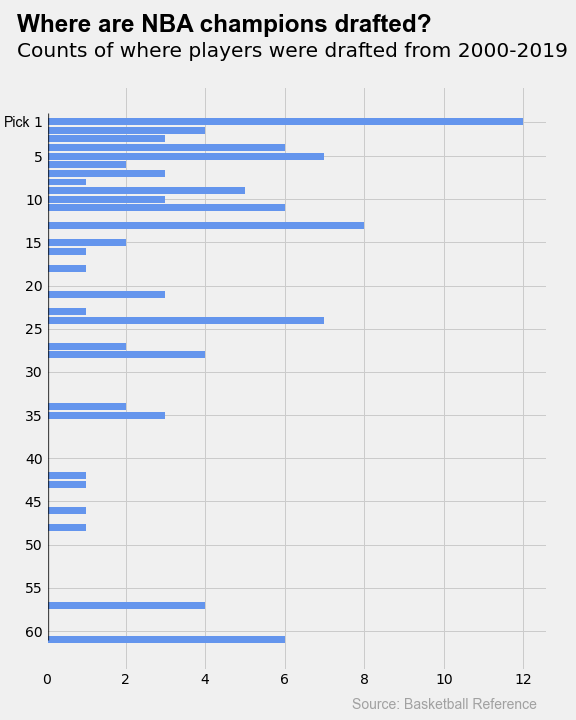
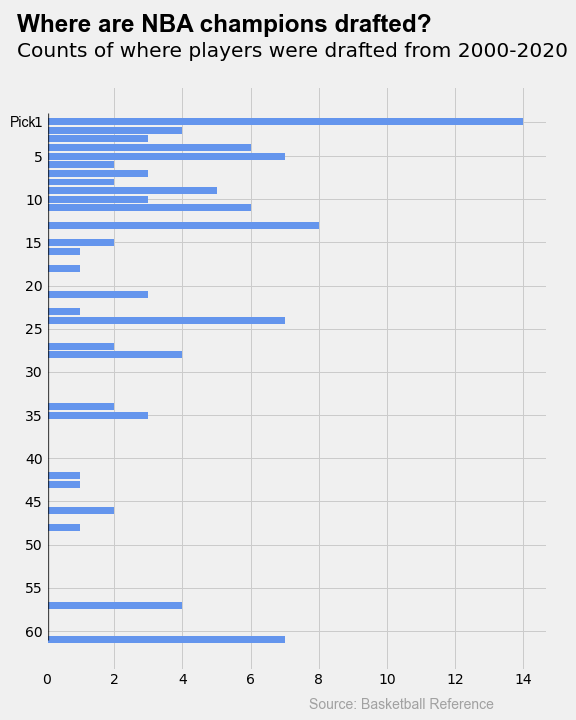
deploy: bgrnwd/bgrnwd@c61d89a7ea22bcba8422edb5607b28d5fe073c58

diff --git a/posts/nba-champion/index.html b/posts/nba-champion/index.html
@@ -1,53 +1,1 @@
-<!doctype html><html><head><meta charset=utf-8><meta name=viewport content="width=device-width,initial-scale=1"><link rel=stylesheet href=/css/style.css><link rel=icon type=image/png sizes=32x32 href=/images/favicon-32x32.png><link rel=icon type=image/png sizes=16x16 href=/images/favicon-16x16.png><title>Where are NBA Champions drafted?</title></head><body><nav class=wrapper><div class=nav-container><div class=home><a href=/><h1 class=nav-title>Brian Greenwood</h1></a></div><div class=menu><ul><li><a href=/posts/><span>Blog</span></a></li><li><a href=https://github.com/bgrnwd target=_blank><span>Code</span></a></li></ul></div></div></nav><main class=wrapper><div class=single>August 08, 2020<h1>Where are NBA Champions drafted?</h1><p>I recently logged on to my <a href=https://www.kaggle.com/>Kaggle</a> profile for the first time in years and stumbled across a &ldquo;dataset&rdquo; I made in 2018. The dataset includes the top five players by playoff minutes from every NBA champion team from 2000 through 2019 and where each team’s top 5 players were selected in their respective drafts. Building a championship-winning team is a difficult task and I wanted to see what information could be gleaned by looking at the top of those rosters. Does building a championship team rely on picking projected stars early? Or do certain teams who pick later in the draft just consistently have the ability to identify hidden talent and develop it? Or is it a little bit of both?</p><h2 id=data>Data</h2><p>I focused on the NBA champion teams from 2000 through 2019 because this covers all seasons this century and conveniently excludes any championship teams that would have had a player drafted before 1989, the first year the draft went to 2 rounds (1999 champion San Antonio Spurs member <a href=https://www.basketball-reference.com/players/e/eliema01.html>Mario Elie</a> was the last player who won a championship and was drafted before 1989). Prior to 1989, the draft had many more picks which would have added complexity to the dataset. The current NBA Draft spans 2 rounds of 30 picks. Some players in the dataset are assigned to “pick 61” to account for that fact that they went un-drafted. All data was collected from <a href=https://www.basketball-reference.com/>Basketball Reference</a> manually (ouch! Were I to do this over again, I would have done this programmatically). Here’s what the data looks like for the 2019 Toronto Raptors:</p><div class=highlight><div style=background-color:#fff;-moz-tab-size:4;-o-tab-size:4;tab-size:4><table style=border-spacing:0;padding:0;margin:0;border:0;width:auto;overflow:auto;display:block><tr><td style=vertical-align:top;padding:0;margin:0;border:0><pre style=background-color:#fff;-moz-tab-size:4;-o-tab-size:4;tab-size:4><code><span style="margin-right:.4em;padding:0 .4em;color:#7f7f7f"> 1
-</span><span style="margin-right:.4em;padding:0 .4em;color:#7f7f7f"> 2
-</span><span style="margin-right:.4em;padding:0 .4em;color:#7f7f7f"> 3
-</span><span style="margin-right:.4em;padding:0 .4em;color:#7f7f7f"> 4
-</span><span style="margin-right:.4em;padding:0 .4em;color:#7f7f7f"> 5
-</span><span style="margin-right:.4em;padding:0 .4em;color:#7f7f7f"> 6
-</span><span style="margin-right:.4em;padding:0 .4em;color:#7f7f7f"> 7
-</span><span style="margin-right:.4em;padding:0 .4em;color:#7f7f7f"> 8
-</span><span style="margin-right:.4em;padding:0 .4em;color:#7f7f7f"> 9
-</span><span style="margin-right:.4em;padding:0 .4em;color:#7f7f7f">10
-</span><span style="margin-right:.4em;padding:0 .4em;color:#7f7f7f">11
-</span><span style="margin-right:.4em;padding:0 .4em;color:#7f7f7f">12
-</span><span style="margin-right:.4em;padding:0 .4em;color:#7f7f7f">13
-</span><span style="margin-right:.4em;padding:0 .4em;color:#7f7f7f">14
-</span><span style="margin-right:.4em;padding:0 .4em;color:#7f7f7f">15
-</span><span style="margin-right:.4em;padding:0 .4em;color:#7f7f7f">16
-</span><span style="margin-right:.4em;padding:0 .4em;color:#7f7f7f">17
-</span><span style="margin-right:.4em;padding:0 .4em;color:#7f7f7f">18
-</span><span style="margin-right:.4em;padding:0 .4em;color:#7f7f7f">19
-</span><span style="margin-right:.4em;padding:0 .4em;color:#7f7f7f">20
-</span><span style="margin-right:.4em;padding:0 .4em;color:#7f7f7f">21
-</span><span style="margin-right:.4em;padding:0 .4em;color:#7f7f7f">22
-</span><span style="margin-right:.4em;padding:0 .4em;color:#7f7f7f">23
-</span><span style="margin-right:.4em;padding:0 .4em;color:#7f7f7f">24
-</span><span style="margin-right:.4em;padding:0 .4em;color:#7f7f7f">25
-</span><span style="margin-right:.4em;padding:0 .4em;color:#7f7f7f">26
-</span></code></pre></td><td style=vertical-align:top;padding:0;margin:0;border:0;width:100%><pre style=background-color:#fff;-moz-tab-size:4;-o-tab-size:4;tab-size:4><code class=language-json data-lang=json>{
-    <span style=color:#000>&#34;year&#34;</span>: <span style=color:#1c01ce>2019</span>,
-    <span style=color:#000>&#34;team&#34;</span>: <span style=color:#c41a16>&#34;Toronto Raptors&#34;</span>,
-    <span style=color:#000>&#34;players&#34;</span>:[
-        {
-            <span style=color:#000>&#34;name&#34;</span>: <span style=color:#c41a16>&#34;Kawhi Leonard&#34;</span>,
-            <span style=color:#000>&#34;pick&#34;</span>: <span style=color:#1c01ce>15</span>
-        },
-        {
-            <span style=color:#000>&#34;name&#34;</span>: <span style=color:#c41a16>&#34;Kyle Lowry&#34;</span>,
-            <span style=color:#000>&#34;pick&#34;</span>: <span style=color:#1c01ce>24</span>
-        },
-        {
-            <span style=color:#000>&#34;name&#34;</span>: <span style=color:#c41a16>&#34;Pascal Siakam&#34;</span>,
-            <span style=color:#000>&#34;pick&#34;</span>: <span style=color:#1c01ce>27</span>
-        },
-        {
-            <span style=color:#000>&#34;name&#34;</span>: <span style=color:#c41a16>&#34;Marc Gasol&#34;</span>,
-            <span style=color:#000>&#34;pick&#34;</span>: <span style=color:#1c01ce>48</span>
-        },
-        {
-            <span style=color:#000>&#34;name&#34;</span>: <span style=color:#c41a16>&#34;Danny Green&#34;</span>,
-            <span style=color:#000>&#34;pick&#34;</span>: <span style=color:#1c01ce>46</span>
-        }
-    ]
-}
-</code></pre></td></tr></table></div></div><p>I wrote a small script that computes the average draft position of the top five players for each individual championship team and the average draft position of the top five players of all championship teams over the past 20 years. No de-duplication was done, so Lebron winning with the Miami Heat in 2012 and 2013 would count twice for pick 1. All fractional picks were rounded to the nearest integer.</p><h2 id=analysis>Analysis</h2><table><thead><tr><th>Year</th><th>Team</th><th>Average Draft Position</th></tr></thead><tbody><tr><td>2019</td><td>Toronto Raptors</td><td>32</td></tr><tr><td>2018</td><td>Golden State Warriors</td><td>14</td></tr><tr><td>2017</td><td>Golden State Warriors</td><td>14</td></tr><tr><td>2016</td><td>Cleveland Cavaliers</td><td>6</td></tr><tr><td>2015</td><td>Golden State Warriors</td><td>15</td></tr><tr><td>2014</td><td>San Antonio Spurs</td><td>24</td></tr><tr><td>2013</td><td>Miami Heat</td><td>10</td></tr><tr><td>2012</td><td>Miami Heat</td><td>21</td></tr><tr><td>2011</td><td>Dallas Mavericks</td><td>6</td></tr><tr><td>2010</td><td>Los Angeles Lakers</td><td>12</td></tr><tr><td>2009</td><td>Los Angeles Lakers</td><td>17</td></tr><tr><td>2008</td><td>Boston Celtics</td><td>14</td></tr><tr><td>2007</td><td>San Antonio Spurs</td><td>34</td></tr><tr><td>2006</td><td>Miami Heat</td><td>16</td></tr><tr><td>2005</td><td>San Antonio Spurs</td><td>32</td></tr><tr><td>2004</td><td>Detroit Pistons</td><td>20</td></tr><tr><td>2003</td><td>San Antonio Spurs</td><td>38</td></tr><tr><td>2002</td><td>Los Angeles Lakers</td><td>15</td></tr><tr><td>2001</td><td>Los Angeles Lakers</td><td>14</td></tr><tr><td>2000</td><td>Los Angeles Lakers</td><td>7</td></tr><tr><td><strong>Overall</strong></td><td></td><td><strong>18</strong></td></tr></tbody></table><p>Looking at the table above, it&rsquo;s no surprise to see that most averages fall in the first round, with the overall average being 18. In order to build champions in the NBA, you need star players and star players are most often found near the top of the draft.</p><p>There are two teams in particular who stand out at the top: the <a href=https://www.basketball-reference.com/teams/CLE/2016.html>2016 Cleveland Cavaliers</a> and the <a href=https://www.basketball-reference.com/teams/DAL/2011.html>2011 Dallas Mavericks</a>, both with an average of six. The Cavaliers won with a foursome of players taken in the top five, Lebron James (pick 1), Kyrie Irving (pick 1), Tristan Thompson (pick 4), and Kevin Love (pick 5). The champion Mavericks had two players taken at pick 2, Jason Kidd and Tyson Chandler, and the rest of their players fell at the end of the top 10; Dirk Nowitzki (pick 9), Shawn Marion (pick 9), and Jason Terry (pick 10).</p><p>The lowest average draft position that appears on the list is 38 (8th pick in the 2nd round) and belongs to the <a href=https://www.basketball-reference.com/teams/SAS/2003.html>2003 San Antonio Spurs</a>. The Spurs’ average here is dragged down by Bruce Bowen (pick 61), Manu Ginobolu (pick 57), and Stephen Jackson (pick 42). The Spurs’ other championship winning teams also have relatively low average draft positions which I think speaks to their ability to identify talent in the 2nd round and develop it. The Spurs have long been lauded for their organizational culture and their ability to consistently be competitive through player development.</p><p>Here&rsquo;s a graphical breakdown of the dataset</p><p><img src=/static/champions.png alt="Horizontal bar chart of draft position vs count"></p><h2 id=conclusion>Conclusion</h2><p>There’s a lot of clustering near the top of the chart in 1-10 range, and some peaks late in the first round and sporadically throughout the second round. Drafting is only one component of building a championship team and not all the players in the dataset where drafted by the teams they won with. Roster fit, chemistry, coaching, and player development all factor in to how successful a team can be. This is particularly emphasized by the the Spurs champtionship teams' low averages. While high draft picks seem to be component of many championship teams, having an orgainzation that can identify talent and nuture it, is another viable pathway to the Larry O&rsquo;Brien trophy.</p><div class=tags><h3 class=filedUnder>Filed Under</h3><p><a href=https://bgrnwd.com/tags/nba/>NBA</a></p><p><a href=https://bgrnwd.com/tags/basketball/>Basketball</a></p><p><a href=https://bgrnwd.com/tags/nba-draft/>NBA Draft</a></p></div></div></main><footer></footer></body></html>
+<!doctype html><html><head><meta charset=utf-8><meta name=viewport content="width=device-width,initial-scale=1"><link rel=stylesheet href=/css/style.css><link rel=icon type=image/png sizes=32x32 href=/images/favicon-32x32.png><link rel=icon type=image/png sizes=16x16 href=/images/favicon-16x16.png><title>Where are NBA Champions drafted?</title></head><body><nav class=wrapper><div class=nav-container><div class=home><a href=/><h1 class=nav-title>Brian Greenwood</h1></a></div><div class=menu><ul><li><a href=/posts/><span>Blog</span></a></li><li><a href=https://github.com/bgrnwd target=_blank><span>Code</span></a></li><li><a href=/notes/><span>Notes</span></a></li></ul></div></div></nav><main class=wrapper><div class=single>August 08, 2020<h1>Where are NBA Champions drafted?</h1><blockquote><p>This article was updated on December 24, 2020 to include data from the 2019-2020 NBA season, along with some minor edits.</p></blockquote><p>I recently logged on to my <a href=https://www.kaggle.com/>Kaggle</a> profile for the first time in years and stumbled across a &ldquo;dataset&rdquo; I made in 2018. The dataset includes the top five players ranked by playoff minutes from every NBA champion team from 2000 through 2019 and where those players were selected in their respective drafts. Using playoff minutes instead of starting lineups provides a truer picture of how champions played throughout their playoff run. The downside to limiting each champion in the dataset to 5 players meant that some important role players did not make the cut. In the case of the 2019 Raptors, Fred VanVleet just missed the cut.</p><p>Building a championship-winning team is a difficult task and I wanted to see what information could be gleaned by looking at the top of those rosters. Does building a championship team rely on picking projected stars early? Or do certain teams who pick later in the draft just consistently have the ability to identify talent and develop it? Or is it a little bit of both?</p><h2 id=data>Data</h2><p>I focused on the NBA champion teams from 2000 through 2019 because this covers all seasons this century and conveniently excludes any championship teams that would have had a player drafted before 1989, the first year the draft went to 2 rounds (1999 champion San Antonio Spurs member <a href=https://www.basketball-reference.com/players/e/eliema01.html>Mario Elie</a> was the last player who won a championship and was drafted before 1989). Prior to 1989, the draft had many more picks which would have added complexity to the dataset. The current NBA Draft spans 2 rounds of 30 picks. Some players in the dataset are assigned to “pick 61” to account for that fact that they went un-drafted. All data was collected from <a href=https://www.basketball-reference.com/>Basketball Reference</a> manually (ouch! Were I to do this over again, I would have done this programmatically).</p><p>I wrote a small script that computes the average draft position for each individual championship team (based on their 5 players with the most playoff minutes played) and the overall average for all 20 NBA championship teams from 2000-2020. No de-duplication was done, so Lebron winning with the Miami Heat in 2012 and 2013 would count twice for pick 1. All fractional picks were rounded to the nearest integer.</p><h2 id=analysis>Analysis</h2><table><thead><tr><th>Year</th><th>Team</th><th>Average Draft Position</th></tr></thead><tbody><tr><td>2020</td><td>Los Angeles Lakers</td><td>23</td></tr><tr><td>2019</td><td>Toronto Raptors</td><td>32</td></tr><tr><td>2018</td><td>Golden State Warriors</td><td>14</td></tr><tr><td>2017</td><td>Golden State Warriors</td><td>14</td></tr><tr><td>2016</td><td>Cleveland Cavaliers</td><td>6</td></tr><tr><td>2015</td><td>Golden State Warriors</td><td>15</td></tr><tr><td>2014</td><td>San Antonio Spurs</td><td>24</td></tr><tr><td>2013</td><td>Miami Heat</td><td>10</td></tr><tr><td>2012</td><td>Miami Heat</td><td>21</td></tr><tr><td>2011</td><td>Dallas Mavericks</td><td>6</td></tr><tr><td>2010</td><td>Los Angeles Lakers</td><td>12</td></tr><tr><td>2009</td><td>Los Angeles Lakers</td><td>17</td></tr><tr><td>2008</td><td>Boston Celtics</td><td>14</td></tr><tr><td>2007</td><td>San Antonio Spurs</td><td>34</td></tr><tr><td>2006</td><td>Miami Heat</td><td>16</td></tr><tr><td>2005</td><td>San Antonio Spurs</td><td>32</td></tr><tr><td>2004</td><td>Detroit Pistons</td><td>20</td></tr><tr><td>2003</td><td>San Antonio Spurs</td><td>38</td></tr><tr><td>2002</td><td>Los Angeles Lakers</td><td>15</td></tr><tr><td>2001</td><td>Los Angeles Lakers</td><td>14</td></tr><tr><td>2000</td><td>Los Angeles Lakers</td><td>7</td></tr><tr><td><strong>Overall</strong></td><td></td><td><strong>19</strong></td></tr></tbody></table><p>Looking at the table above, it&rsquo;s no surprise to see that most averages fall in the first round, with the overall average being 19. In order to build champions in the NBA, you need star players and star players are most often found near the top of the draft.</p><p>There are two teams in particular who stand out at the top: the <a href=https://www.basketball-reference.com/teams/CLE/2016.html>2016 Cleveland Cavaliers</a> and the <a href=https://www.basketball-reference.com/teams/DAL/2011.html>2011 Dallas Mavericks</a>, both with an average of six. The Cavaliers won with a foursome of players taken in the top five, Lebron James (pick 1), Kyrie Irving (pick 1), Tristan Thompson (pick 4), and Kevin Love (pick 5). The champion Mavericks had two players taken at pick 2, Jason Kidd and Tyson Chandler, and the rest of their players fell at the end of the top 10; Dirk Nowitzki (pick 9), Shawn Marion (pick 9), and Jason Terry (pick 10).</p><p>The lowest average draft position that appears on the list is 38 (8th pick in the 2nd round) and belongs to the <a href=https://www.basketball-reference.com/teams/SAS/2003.html>2003 San Antonio Spurs</a>. The Spurs’ average here is dragged down by Bruce Bowen (pick 61), Manu Ginobolu (pick 57), and Stephen Jackson (pick 42). The Spurs’ other championship winning teams also have relatively low average draft positions which I think speaks to their ability to identify talent in the 2nd round and develop it. The Spurs have long been lauded for their organizational culture and their ability to consistently be competitive through player development.</p><p>Here&rsquo;s a graphical breakdown of the dataset</p><p><img src=/static/champions.png alt="Horizontal bar chart of draft position vs count"></p><h2 id=conclusion>Conclusion</h2><p>There’s a lot of clustering near the top of the chart in 1-10 range, and some peaks late in the first round and sporadically throughout the second round. Drafting is only one component of building a championship team and not all the players in the dataset were drafted by the teams they won with. Roster fit, chemistry, coaching, and player development all factor in to how successful a team can be. This is particularly emphasized by the the Spurs championship teams' low averages. While high draft picks seem to be component of many championship teams, having an organization that can identify talent and nurture it, is another viable pathway to the Larry O&rsquo;Brien trophy.</p><div class=tags><h3 class=filedUnder>Filed Under</h3><p><a href=https://bgrnwd.com/tags/nba/>NBA</a></p><p><a href=https://bgrnwd.com/tags/basketball/>Basketball</a></p><p><a href=https://bgrnwd.com/tags/nba-draft/>NBA Draft</a></p></div></div></main><footer></footer></body></html>

diff --git a/notes/manipulating-json/index.html b/notes/manipulating-json/index.html
@@ -1,0 +1,13 @@
+<!doctype html><html><head><meta charset=utf-8><meta name=viewport content="width=device-width,initial-scale=1"><link rel=stylesheet href=/css/style.css><link rel=icon type=image/png sizes=32x32 href=/images/favicon-32x32.png><link rel=icon type=image/png sizes=16x16 href=/images/favicon-16x16.png><title>Manipulating JSON</title></head><body><nav class=wrapper><div class=nav-container><div class=home><a href=/><h1 class=nav-title>Brian Greenwood</h1></a></div><div class=menu><ul><li><a href=/posts/><span>Blog</span></a></li><li><a href=https://github.com/bgrnwd target=_blank><span>Code</span></a></li><li><a href=/notes/><span>Notes</span></a></li></ul></div></div></nav><main class=wrapper><div class=single><h1>Manipulating JSON</h1><h2 id=prerequisites>Prerequisites</h2><div class=highlight><div style=background-color:#fff;-moz-tab-size:4;-o-tab-size:4;tab-size:4><table style=border-spacing:0;padding:0;margin:0;border:0;width:auto;overflow:auto;display:block><tr><td style=vertical-align:top;padding:0;margin:0;border:0><pre style=background-color:#fff;-moz-tab-size:4;-o-tab-size:4;tab-size:4><code><span style="margin-right:.4em;padding:0 .4em;color:#7f7f7f">1
+</span><span style="margin-right:.4em;padding:0 .4em;color:#7f7f7f">2
+</span></code></pre></td><td style=vertical-align:top;padding:0;margin:0;border:0;width:100%><pre style=background-color:#fff;-moz-tab-size:4;-o-tab-size:4;tab-size:4><code class=language-python data-lang=python><span style=color:#177500># Import library</span>
+<span style=color:#a90d91>import</span> <span style=color:#000>json</span>
+</code></pre></td></tr></table></div></div><h2 id=json-to-python-object>JSON to Python Object</h2><div class=highlight><div style=background-color:#fff;-moz-tab-size:4;-o-tab-size:4;tab-size:4><table style=border-spacing:0;padding:0;margin:0;border:0;width:auto;overflow:auto;display:block><tr><td style=vertical-align:top;padding:0;margin:0;border:0><pre style=background-color:#fff;-moz-tab-size:4;-o-tab-size:4;tab-size:4><code><span style="margin-right:.4em;padding:0 .4em;color:#7f7f7f">1
+</span></code></pre></td><td style=vertical-align:top;padding:0;margin:0;border:0;width:100%><pre style=background-color:#fff;-moz-tab-size:4;-o-tab-size:4;tab-size:4><code class=language-python data-lang=python><span style=color:#000>json</span><span style=color:#000>.</span><span style=color:#000>loads</span>(<span style=color:#000>json_string</span>)
+</code></pre></td></tr></table></div></div><h2 id=python-object-to-json>Python Object to JSON</h2><div class=highlight><div style=background-color:#fff;-moz-tab-size:4;-o-tab-size:4;tab-size:4><table style=border-spacing:0;padding:0;margin:0;border:0;width:auto;overflow:auto;display:block><tr><td style=vertical-align:top;padding:0;margin:0;border:0><pre style=background-color:#fff;-moz-tab-size:4;-o-tab-size:4;tab-size:4><code><span style="margin-right:.4em;padding:0 .4em;color:#7f7f7f">1
+</span></code></pre></td><td style=vertical-align:top;padding:0;margin:0;border:0;width:100%><pre style=background-color:#fff;-moz-tab-size:4;-o-tab-size:4;tab-size:4><code class=language-python data-lang=python><span style=color:#000>json</span><span style=color:#000>.</span><span style=color:#000>dumps</span>(<span style=color:#000>obj</span>)
+</code></pre></td></tr></table></div></div><h2 id=json-file-to-python-object>JSON File to Python Object</h2><div class=highlight><div style=background-color:#fff;-moz-tab-size:4;-o-tab-size:4;tab-size:4><table style=border-spacing:0;padding:0;margin:0;border:0;width:auto;overflow:auto;display:block><tr><td style=vertical-align:top;padding:0;margin:0;border:0><pre style=background-color:#fff;-moz-tab-size:4;-o-tab-size:4;tab-size:4><code><span style="margin-right:.4em;padding:0 .4em;color:#7f7f7f">1
+</span></code></pre></td><td style=vertical-align:top;padding:0;margin:0;border:0;width:100%><pre style=background-color:#fff;-moz-tab-size:4;-o-tab-size:4;tab-size:4><code class=language-python data-lang=python><span style=color:#000>json</span><span style=color:#000>.</span><span style=color:#000>load</span>(<span style=color:#a90d91>file</span>)
+</code></pre></td></tr></table></div></div><h2 id=python-object-to-json-file>Python Object to JSON File</h2><div class=highlight><div style=background-color:#fff;-moz-tab-size:4;-o-tab-size:4;tab-size:4><table style=border-spacing:0;padding:0;margin:0;border:0;width:auto;overflow:auto;display:block><tr><td style=vertical-align:top;padding:0;margin:0;border:0><pre style=background-color:#fff;-moz-tab-size:4;-o-tab-size:4;tab-size:4><code><span style="margin-right:.4em;padding:0 .4em;color:#7f7f7f">1
+</span></code></pre></td><td style=vertical-align:top;padding:0;margin:0;border:0;width:100%><pre style=background-color:#fff;-moz-tab-size:4;-o-tab-size:4;tab-size:4><code class=language-python data-lang=python><span style=color:#000>json</span><span style=color:#000>.</span><span style=color:#000>dump</span>(<span style=color:#000>obj</span>)
+</code></pre></td></tr></table></div></div><div class=tags><h3 class=filedUnder>Filed Under</h3><p><a href=https://bgrnwd.com/tags/json/>JSON</a></p></div></div></main><footer></footer></body></html>

diff --git a/index.html b/index.html
@@ -1,1 +1,1 @@
-<!doctype html><html><head><meta name=generator content="Hugo 0.79.0"><meta charset=utf-8><meta name=viewport content="width=device-width,initial-scale=1"><link rel=stylesheet href=/css/style.css><link rel=icon type=image/png sizes=32x32 href=/images/favicon-32x32.png><link rel=icon type=image/png sizes=16x16 href=/images/favicon-16x16.png><title>Brian Greenwood</title></head><body><nav class=wrapper><div class=nav-container><div class=home><a href=/><h1 class=nav-title>Brian Greenwood</h1></a></div><div class=menu><ul><li><a href=/posts/><span>Blog</span></a></li><li><a href=https://github.com/bgrnwd target=_blank><span>Code</span></a></li></ul></div></div></nav><main class=wrapper id=home><div class=intro><p>I am currently a software developer in the financial services industry, with prior experience as a web developer for a creative design studio. I completed an internship with NASA as part of earning my B.S. in Computer Engineering from Syracuse University. I have strong interests in Linux, data science, big data, and sport analytics. Check out my blog or notes for more.</p></div></main><footer></footer></body></html>
+<!doctype html><html><head><meta name=generator content="Hugo 0.79.1"><meta charset=utf-8><meta name=viewport content="width=device-width,initial-scale=1"><link rel=stylesheet href=/css/style.css><link rel=icon type=image/png sizes=32x32 href=/images/favicon-32x32.png><link rel=icon type=image/png sizes=16x16 href=/images/favicon-16x16.png><title>Brian Greenwood</title></head><body><nav class=wrapper><div class=nav-container><div class=home><a href=/><h1 class=nav-title>Brian Greenwood</h1></a></div><div class=menu><ul><li><a href=/posts/><span>Blog</span></a></li><li><a href=https://github.com/bgrnwd target=_blank><span>Code</span></a></li><li><a href=/notes/><span>Notes</span></a></li></ul></div></div></nav><main class=wrapper id=home><div class=intro><p>I am currently a software developer in the financial services industry, with prior experience as a web developer for a creative design studio. I completed an internship with NASA as part of earning my B.S. in Computer Engineering from Syracuse University. I have strong interests in Linux, data science, big data, and sport analytics. Check out my blog or notes for more.</p></div></main><footer></footer></body></html>

diff --git a/posts/liftoff/index.html b/posts/liftoff/index.html
@@ -1,1 +1,1 @@
-<!doctype html><html><head><meta charset=utf-8><meta name=viewport content="width=device-width,initial-scale=1"><link rel=stylesheet href=/css/style.css><link rel=icon type=image/png sizes=32x32 href=/images/favicon-32x32.png><link rel=icon type=image/png sizes=16x16 href=/images/favicon-16x16.png><title>Liftoff</title></head><body><nav class=wrapper><div class=nav-container><div class=home><a href=/><h1 class=nav-title>Brian Greenwood</h1></a></div><div class=menu><ul><li><a href=/posts/><span>Blog</span></a></li><li><a href=https://github.com/bgrnwd target=_blank><span>Code</span></a></li></ul></div></div></nav><main class=wrapper><div class=single>July 25, 2020<h1>Liftoff</h1><p>Hi and thanks for checking out my website. This blog will serve as an outlet to write about my interests and side projects. I suspect they will mostly be technical in nature and focus heavily on sports, but I&rsquo;m sure other topics will surface as well. There isn&rsquo;t much here now, but in the future, happy reading!</p><div class=tags><h3 class=filedUnder>Filed Under</h3></div></div></main><footer></footer></body></html>
+<!doctype html><html><head><meta charset=utf-8><meta name=viewport content="width=device-width,initial-scale=1"><link rel=stylesheet href=/css/style.css><link rel=icon type=image/png sizes=32x32 href=/images/favicon-32x32.png><link rel=icon type=image/png sizes=16x16 href=/images/favicon-16x16.png><title>Liftoff</title></head><body><nav class=wrapper><div class=nav-container><div class=home><a href=/><h1 class=nav-title>Brian Greenwood</h1></a></div><div class=menu><ul><li><a href=/posts/><span>Blog</span></a></li><li><a href=https://github.com/bgrnwd target=_blank><span>Code</span></a></li><li><a href=/notes/><span>Notes</span></a></li></ul></div></div></nav><main class=wrapper><div class=single>July 25, 2020<h1>Liftoff</h1><p>Hi and thanks for checking out my website. This blog will serve as an outlet to write about my interests and side projects. I suspect they will mostly be technical in nature and focus heavily on sports, but I&rsquo;m sure other topics will surface as well. There isn&rsquo;t much here now, but in the future, happy reading!</p><div class=tags><h3 class=filedUnder>Filed Under</h3></div></div></main><footer></footer></body></html>

diff --git a/tags/index.html b/tags/index.html
@@ -1,1 +1,1 @@
-<!doctype html><html><head><meta charset=utf-8><meta name=viewport content="width=device-width,initial-scale=1"><link rel=stylesheet href=/css/style.css><link rel=icon type=image/png sizes=32x32 href=/images/favicon-32x32.png><link rel=icon type=image/png sizes=16x16 href=/images/favicon-16x16.png><title>Tags</title></head><body><nav class=wrapper><div class=nav-container><div class=home><a href=/><h1 class=nav-title>Brian Greenwood</h1></a></div><div class=menu><ul><li><a href=/posts/><span>Blog</span></a></li><li><a href=https://github.com/bgrnwd target=_blank><span>Code</span></a></li></ul></div></div></nav><main class=wrapper><div class=taxonomy><h3>All posts tagged</h3><h2 class=taxTitle>"Tags"</h2><ul><li><span class=datetime>Jan 01, 0001</span><h2><a href=/tags/basketball/>Basketball</a></h2></li><li><span class=datetime>Jan 01, 0001</span><h2><a href=/tags/nba/>NBA</a></h2></li><li><span class=datetime>Jan 01, 0001</span><h2><a href=/tags/nba-draft/>NBA Draft</a></h2></li></ul></div></main><footer></footer></body></html>
+<!doctype html><html><head><meta charset=utf-8><meta name=viewport content="width=device-width,initial-scale=1"><link rel=stylesheet href=/css/style.css><link rel=icon type=image/png sizes=32x32 href=/images/favicon-32x32.png><link rel=icon type=image/png sizes=16x16 href=/images/favicon-16x16.png><title>Tags</title></head><body><nav class=wrapper><div class=nav-container><div class=home><a href=/><h1 class=nav-title>Brian Greenwood</h1></a></div><div class=menu><ul><li><a href=/posts/><span>Blog</span></a></li><li><a href=https://github.com/bgrnwd target=_blank><span>Code</span></a></li><li><a href=/notes/><span>Notes</span></a></li></ul></div></div></nav><main class=wrapper><div class=taxonomy><h3>All posts tagged</h3><h2 class=taxTitle>"Tags"</h2><ul><li><span class=datetime>Jan 01, 0001</span><h2><a href=/tags/basketball/>Basketball</a></h2></li><li><span class=datetime>Jan 01, 0001</span><h2><a href=/tags/nba/>NBA</a></h2></li><li><span class=datetime>Jan 01, 0001</span><h2><a href=/tags/nba-draft/>NBA Draft</a></h2></li><li><span class=datetime>Jan 01, 0001</span><h2><a href=/tags/json/>JSON</a></h2></li></ul></div></main><footer></footer></body></html>

diff --git a/posts/index.html b/posts/index.html
@@ -1,3 +1,3 @@
-<!doctype html><html><head><meta charset=utf-8><meta name=viewport content="width=device-width,initial-scale=1"><link rel=stylesheet href=/css/style.css><link rel=icon type=image/png sizes=32x32 href=/images/favicon-32x32.png><link rel=icon type=image/png sizes=16x16 href=/images/favicon-16x16.png><title>Blog</title></head><body><nav class=wrapper><div class=nav-container><div class=home><a href=/><h1 class=nav-title>Brian Greenwood</h1></a></div><div class=menu><ul><li><a href=/posts/><span>Blog</span></a></li><li><a href=https://github.com/bgrnwd target=_blank><span>Code</span></a></li></ul></div></div></nav><main class=wrapper><div class=list><h1>Blog</h1><div class=post-group><div class=post-row><span class=post-title><a href=/posts/nba-champion/>Where are NBA Champions drafted?</a></span>
+<!doctype html><html><head><meta charset=utf-8><meta name=viewport content="width=device-width,initial-scale=1"><link rel=stylesheet href=/css/style.css><link rel=icon type=image/png sizes=32x32 href=/images/favicon-32x32.png><link rel=icon type=image/png sizes=16x16 href=/images/favicon-16x16.png><title>Blog</title></head><body><nav class=wrapper><div class=nav-container><div class=home><a href=/><h1 class=nav-title>Brian Greenwood</h1></a></div><div class=menu><ul><li><a href=/posts/><span>Blog</span></a></li><li><a href=https://github.com/bgrnwd target=_blank><span>Code</span></a></li><li><a href=/notes/><span>Notes</span></a></li></ul></div></div></nav><main class=wrapper><div class=list><h1>Blog</h1><div class=post-group><div class=post-row><span class=post-title><a href=/posts/nba-champion/>Where are NBA Champions drafted?</a></span>
 <span class=post-date>08 August 2020</span><p class=post-description>An analysis of NBA championship winning teams from 2000 to 2019</p></div><div class=post-row><span class=post-title><a href=/posts/liftoff/>Liftoff</a></span>
 <span class=post-date>25 July 2020</span><p class=post-description>Welcome to my blog</p></div></div></div></main><footer></footer></body></html>

diff --git a/tags/basketball/index.html b/tags/basketball/index.html
@@ -1,1 +1,1 @@
-<!doctype html><html><head><meta charset=utf-8><meta name=viewport content="width=device-width,initial-scale=1"><link rel=stylesheet href=/css/style.css><link rel=icon type=image/png sizes=32x32 href=/images/favicon-32x32.png><link rel=icon type=image/png sizes=16x16 href=/images/favicon-16x16.png><title>Basketball</title></head><body><nav class=wrapper><div class=nav-container><div class=home><a href=/><h1 class=nav-title>Brian Greenwood</h1></a></div><div class=menu><ul><li><a href=/posts/><span>Blog</span></a></li><li><a href=https://github.com/bgrnwd target=_blank><span>Code</span></a></li></ul></div></div></nav><main class=wrapper><div class=taxonomy><h3>All posts tagged</h3><h2 class=taxTitle>"Basketball"</h2><ul><li><span class=datetime>Aug 08, 2020</span><h2><a href=/posts/nba-champion/>Where are NBA Champions drafted?</a></h2></li></ul></div></main><footer></footer></body></html>
+<!doctype html><html><head><meta charset=utf-8><meta name=viewport content="width=device-width,initial-scale=1"><link rel=stylesheet href=/css/style.css><link rel=icon type=image/png sizes=32x32 href=/images/favicon-32x32.png><link rel=icon type=image/png sizes=16x16 href=/images/favicon-16x16.png><title>Basketball</title></head><body><nav class=wrapper><div class=nav-container><div class=home><a href=/><h1 class=nav-title>Brian Greenwood</h1></a></div><div class=menu><ul><li><a href=/posts/><span>Blog</span></a></li><li><a href=https://github.com/bgrnwd target=_blank><span>Code</span></a></li><li><a href=/notes/><span>Notes</span></a></li></ul></div></div></nav><main class=wrapper><div class=taxonomy><h3>All posts tagged</h3><h2 class=taxTitle>"Basketball"</h2><ul><li><span class=datetime>Aug 08, 2020</span><h2><a href=/posts/nba-champion/>Where are NBA Champions drafted?</a></h2></li></ul></div></main><footer></footer></body></html>

diff --git a/tags/nba-draft/index.html b/tags/nba-draft/index.html
@@ -1,1 +1,1 @@
-<!doctype html><html><head><meta charset=utf-8><meta name=viewport content="width=device-width,initial-scale=1"><link rel=stylesheet href=/css/style.css><link rel=icon type=image/png sizes=32x32 href=/images/favicon-32x32.png><link rel=icon type=image/png sizes=16x16 href=/images/favicon-16x16.png><title>NBA Draft</title></head><body><nav class=wrapper><div class=nav-container><div class=home><a href=/><h1 class=nav-title>Brian Greenwood</h1></a></div><div class=menu><ul><li><a href=/posts/><span>Blog</span></a></li><li><a href=https://github.com/bgrnwd target=_blank><span>Code</span></a></li></ul></div></div></nav><main class=wrapper><div class=taxonomy><h3>All posts tagged</h3><h2 class=taxTitle>"NBA Draft"</h2><ul><li><span class=datetime>Aug 08, 2020</span><h2><a href=/posts/nba-champion/>Where are NBA Champions drafted?</a></h2></li></ul></div></main><footer></footer></body></html>
+<!doctype html><html><head><meta charset=utf-8><meta name=viewport content="width=device-width,initial-scale=1"><link rel=stylesheet href=/css/style.css><link rel=icon type=image/png sizes=32x32 href=/images/favicon-32x32.png><link rel=icon type=image/png sizes=16x16 href=/images/favicon-16x16.png><title>NBA Draft</title></head><body><nav class=wrapper><div class=nav-container><div class=home><a href=/><h1 class=nav-title>Brian Greenwood</h1></a></div><div class=menu><ul><li><a href=/posts/><span>Blog</span></a></li><li><a href=https://github.com/bgrnwd target=_blank><span>Code</span></a></li><li><a href=/notes/><span>Notes</span></a></li></ul></div></div></nav><main class=wrapper><div class=taxonomy><h3>All posts tagged</h3><h2 class=taxTitle>"NBA Draft"</h2><ul><li><span class=datetime>Aug 08, 2020</span><h2><a href=/posts/nba-champion/>Where are NBA Champions drafted?</a></h2></li></ul></div></main><footer></footer></body></html>

diff --git a/tags/nba/index.html b/tags/nba/index.html
@@ -1,1 +1,1 @@
-<!doctype html><html><head><meta charset=utf-8><meta name=viewport content="width=device-width,initial-scale=1"><link rel=stylesheet href=/css/style.css><link rel=icon type=image/png sizes=32x32 href=/images/favicon-32x32.png><link rel=icon type=image/png sizes=16x16 href=/images/favicon-16x16.png><title>NBA</title></head><body><nav class=wrapper><div class=nav-container><div class=home><a href=/><h1 class=nav-title>Brian Greenwood</h1></a></div><div class=menu><ul><li><a href=/posts/><span>Blog</span></a></li><li><a href=https://github.com/bgrnwd target=_blank><span>Code</span></a></li></ul></div></div></nav><main class=wrapper><div class=taxonomy><h3>All posts tagged</h3><h2 class=taxTitle>"NBA"</h2><ul><li><span class=datetime>Aug 08, 2020</span><h2><a href=/posts/nba-champion/>Where are NBA Champions drafted?</a></h2></li></ul></div></main><footer></footer></body></html>
+<!doctype html><html><head><meta charset=utf-8><meta name=viewport content="width=device-width,initial-scale=1"><link rel=stylesheet href=/css/style.css><link rel=icon type=image/png sizes=32x32 href=/images/favicon-32x32.png><link rel=icon type=image/png sizes=16x16 href=/images/favicon-16x16.png><title>NBA</title></head><body><nav class=wrapper><div class=nav-container><div class=home><a href=/><h1 class=nav-title>Brian Greenwood</h1></a></div><div class=menu><ul><li><a href=/posts/><span>Blog</span></a></li><li><a href=https://github.com/bgrnwd target=_blank><span>Code</span></a></li><li><a href=/notes/><span>Notes</span></a></li></ul></div></div></nav><main class=wrapper><div class=taxonomy><h3>All posts tagged</h3><h2 class=taxTitle>"NBA"</h2><ul><li><span class=datetime>Aug 08, 2020</span><h2><a href=/posts/nba-champion/>Where are NBA Champions drafted?</a></h2></li></ul></div></main><footer></footer></body></html>

diff --git a/categories/index.html b/categories/index.html
@@ -1,1 +1,1 @@
-<!doctype html><html><head><meta charset=utf-8><meta name=viewport content="width=device-width,initial-scale=1"><link rel=stylesheet href=/css/style.css><link rel=icon type=image/png sizes=32x32 href=/images/favicon-32x32.png><link rel=icon type=image/png sizes=16x16 href=/images/favicon-16x16.png><title>Categories</title></head><body><nav class=wrapper><div class=nav-container><div class=home><a href=/><h1 class=nav-title>Brian Greenwood</h1></a></div><div class=menu><ul><li><a href=/posts/><span>Blog</span></a></li><li><a href=https://github.com/bgrnwd target=_blank><span>Code</span></a></li></ul></div></div></nav><main class=wrapper><div class=taxonomy><h3>All posts tagged</h3><h2 class=taxTitle>"Categories"</h2><ul></ul></div></main><footer></footer></body></html>
+<!doctype html><html><head><meta charset=utf-8><meta name=viewport content="width=device-width,initial-scale=1"><link rel=stylesheet href=/css/style.css><link rel=icon type=image/png sizes=32x32 href=/images/favicon-32x32.png><link rel=icon type=image/png sizes=16x16 href=/images/favicon-16x16.png><title>Categories</title></head><body><nav class=wrapper><div class=nav-container><div class=home><a href=/><h1 class=nav-title>Brian Greenwood</h1></a></div><div class=menu><ul><li><a href=/posts/><span>Blog</span></a></li><li><a href=https://github.com/bgrnwd target=_blank><span>Code</span></a></li><li><a href=/notes/><span>Notes</span></a></li></ul></div></div></nav><main class=wrapper><div class=taxonomy><h3>All posts tagged</h3><h2 class=taxTitle>"Categories"</h2><ul></ul></div></main><footer></footer></body></html>

diff --git a/404.html b/404.html
@@ -1,1 +1,1 @@
-<!doctype html><html><head><meta charset=utf-8><meta name=viewport content="width=device-width,initial-scale=1"><link rel=stylesheet href=/css/style.css><link rel=icon type=image/png sizes=32x32 href=/images/favicon-32x32.png><link rel=icon type=image/png sizes=16x16 href=/images/favicon-16x16.png><title>404 Page not found</title></head><body><nav class=wrapper><div class=nav-container><div class=home><a href=/><h1 class=nav-title>Brian Greenwood</h1></a></div><div class=menu><ul><li><a href=/posts/><span>Blog</span></a></li><li><a href=https://github.com/bgrnwd target=_blank><span>Code</span></a></li></ul></div></div></nav><main class=wrapper><div class=404></div></main><footer></footer></body></html>
+<!doctype html><html><head><meta charset=utf-8><meta name=viewport content="width=device-width,initial-scale=1"><link rel=stylesheet href=/css/style.css><link rel=icon type=image/png sizes=32x32 href=/images/favicon-32x32.png><link rel=icon type=image/png sizes=16x16 href=/images/favicon-16x16.png><title>404 Page not found</title></head><body><nav class=wrapper><div class=nav-container><div class=home><a href=/><h1 class=nav-title>Brian Greenwood</h1></a></div><div class=menu><ul><li><a href=/posts/><span>Blog</span></a></li><li><a href=https://github.com/bgrnwd target=_blank><span>Code</span></a></li><li><a href=/notes/><span>Notes</span></a></li></ul></div></div></nav><main class=wrapper><div class=404></div></main><footer></footer></body></html>

diff --git a/notes/index.html b/notes/index.html
@@ -1,0 +1,1 @@
+<!doctype html><html><head><meta charset=utf-8><meta name=viewport content="width=device-width,initial-scale=1"><link rel=stylesheet href=/css/style.css><link rel=icon type=image/png sizes=32x32 href=/images/favicon-32x32.png><link rel=icon type=image/png sizes=16x16 href=/images/favicon-16x16.png><title>Notes</title></head><body><nav class=wrapper><div class=nav-container><div class=home><a href=/><h1 class=nav-title>Brian Greenwood</h1></a></div><div class=menu><ul><li><a href=/posts/><span>Blog</span></a></li><li><a href=https://github.com/bgrnwd target=_blank><span>Code</span></a></li><li><a href=/notes/><span>Notes</span></a></li></ul></div></div></nav><main class=wrapper><div class=notes><h1>Notes</h1><div class=category><h2>python</h2><div class=subcategory><h3>basics</h3><ul><li><span><a href=/notes/manipulating-json/>Manipulating JSON</a></span></li></ul></div></div></div></main><footer></footer></body></html>
